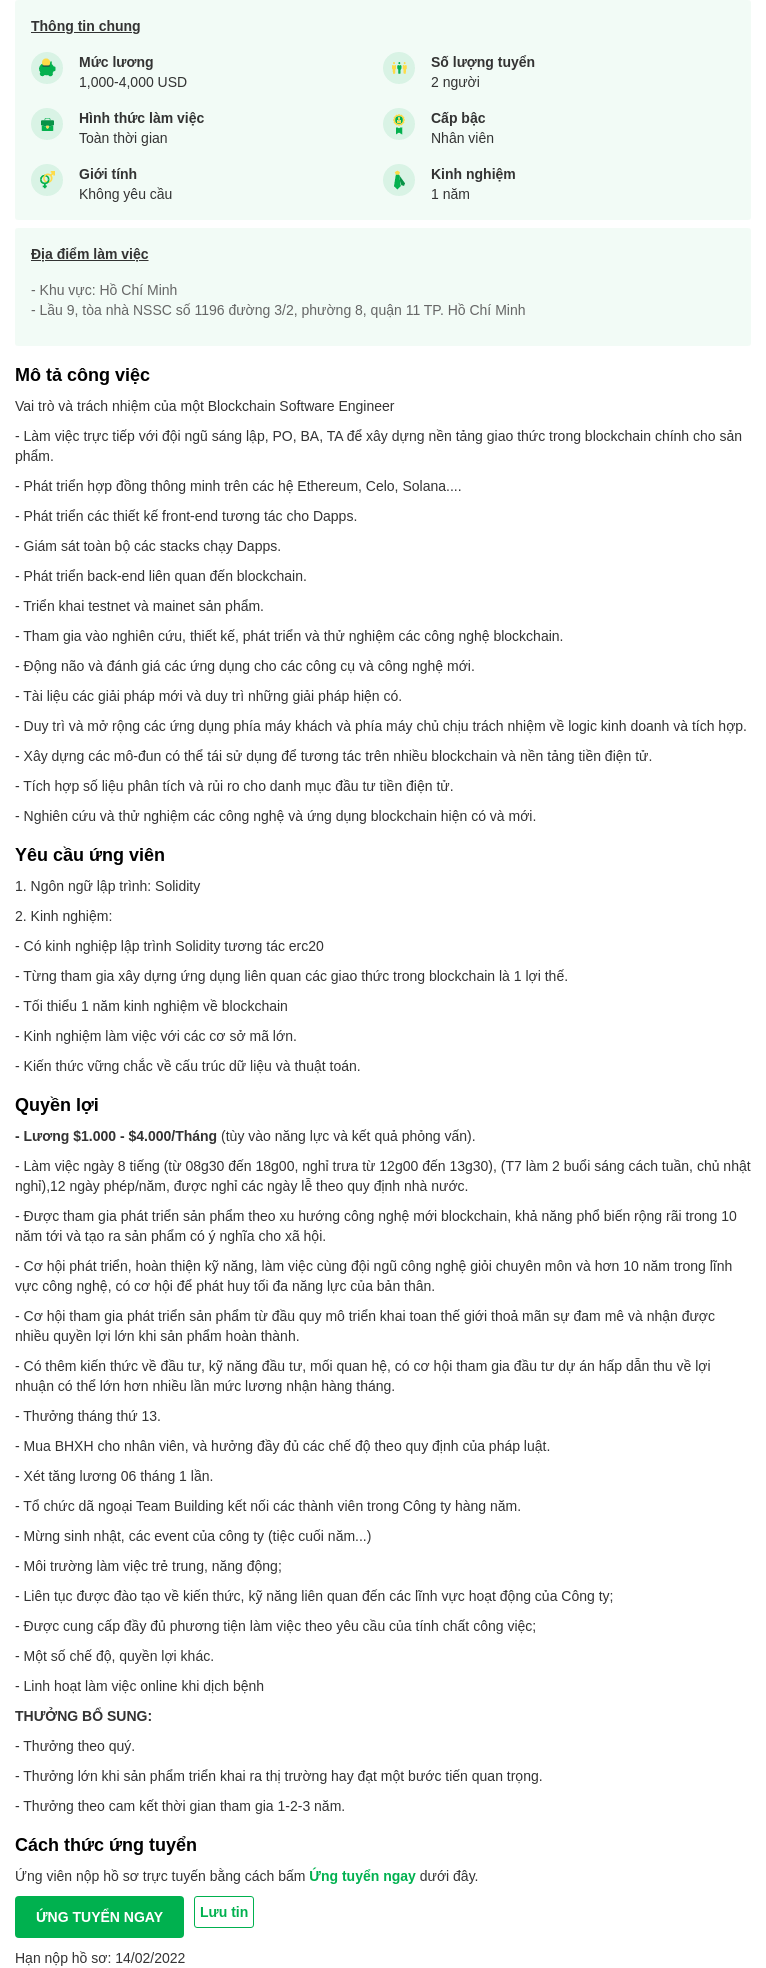
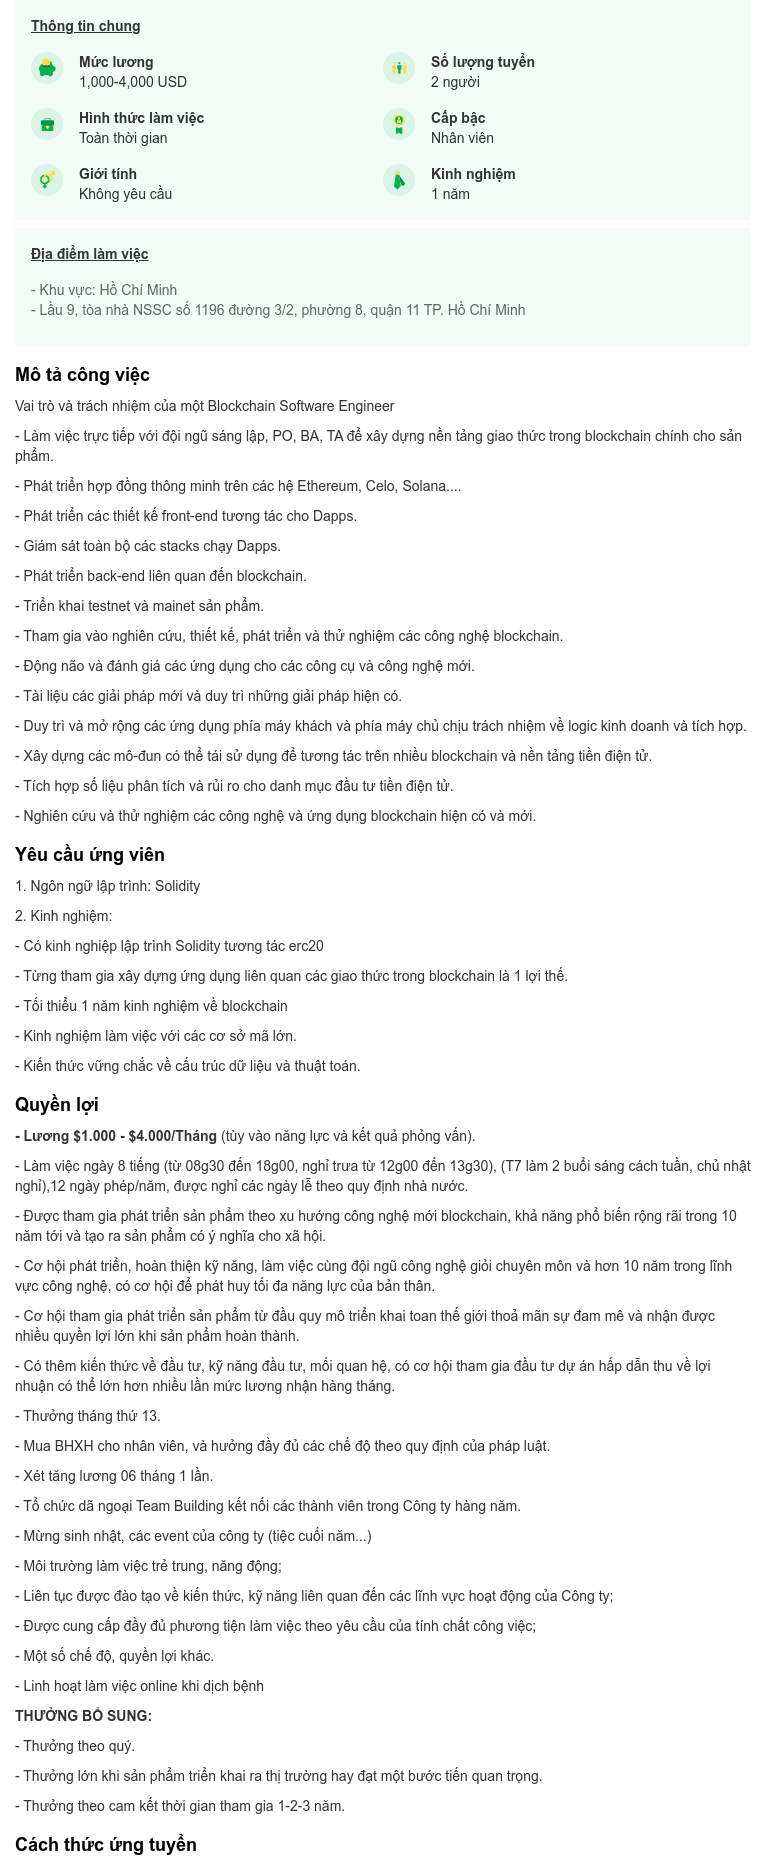
remove specific element

diff --git a/feeds/topcv.go b/feeds/topcv.go
@@ -181,7 +181,7 @@ func TopCV(repo repository.Repository) {
 }
 
 // screenshotJDTopCV takes a screenshot of job descript topcv
-func screenshotJDTopCV(url string) {
+func ScreenshotJDTopCV(url string) {
 	ctx, cancel := chromedp.NewContext(
 		context.Background(),
 	)
@@ -191,17 +191,17 @@ func screenshotJDTopCV(url string) {
 
 	if strings.Contains(url, "brand") {
 		// ex: https://www.topcv.vn/brand/smartosc/tuyen-dung/it-comtor-j592057.html
-		if err := chromedp.Run(ctx, common.ElementScreenshot(url, "div.section-body", &buf)); err != nil {
+		if err := chromedp.Run(ctx, common.ElementScreenshot(url, "div.section-body", []string{"div.box-apply", "div.box-seo-job-detail"}, &buf)); err != nil {
 			fmt.Println(err)
 		}
 	} else {
 		// ex: https://www.topcv.vn/viec-lam/blockchain-developers-luong-1-000-4-000-hcm/590697.html
-		if err := chromedp.Run(ctx, common.ElementScreenshot(url, "div.box-info-job div.col-md-8", &buf)); err != nil {
+		if err := chromedp.Run(ctx, common.ElementScreenshot(url, "div.box-info-job div.col-md-8", []string{"div.box-how-to-apply"}, &buf)); err != nil {
 			fmt.Println(err)
 		}
 	}
 
-	if err := ioutil.WriteFile("screenshot_descript.png", buf, 0644); err != nil {
+	if err := ioutil.WriteFile("screenshot_descript_y.png", buf, 0644); err != nil {
 		fmt.Println(err)
 	}
 }

diff --git a/common/screenshot.go b/common/screenshot.go
@@ -1,0 +1,49 @@
+package common
+
+import (
+	"context"
+	"fmt"
+	"strings"
+
+	"github.com/chromedp/cdproto/runtime"
+	"github.com/chromedp/chromedp"
+)
+
+// ElementScreenshot takes a screenshot of a specific element.
+func ElementScreenshot(url, sel string, element []string, res *[]byte) chromedp.Tasks {
+	actions := chromedp.Tasks{
+		chromedp.Navigate(url),
+		chromedp.WaitVisible("html", chromedp.ByQuery),
+	}
+
+	actions = append(actions, chromedp.ActionFunc(func(ctx context.Context) error {
+		_, exp, err := runtime.Evaluate(RemoveSpecificElement(element)).Do(ctx)
+		if err != nil {
+			return err
+		}
+
+		if exp != nil {
+			return exp
+		}
+
+		return nil
+	}))
+
+	actions = append(actions, chromedp.Tasks{
+		chromedp.Screenshot(sel, res, chromedp.NodeVisible),
+	})
+
+	return actions
+}
+
+// RemoveSpecificElement remove specific element
+func RemoveSpecificElement(element []string) string {
+	return fmt.Sprintf(`[%s].forEach(item => {
+		const element = document.querySelector(item)
+		if(element) element.remove()
+	})`, fmt.Sprintf(
+		"'%s'",
+		strings.Join(element, `', '`),
+	),
+	)
+}

diff --git a/main.go b/main.go
@@ -18,6 +18,7 @@ func main() {
 		Repo: repoimpl.NewRepo(mg),
 	}
 
+	// run crawl
 	var wg sync.WaitGroup
 	wg.Add(1)
 
@@ -28,9 +29,14 @@ func main() {
 
 	wg.Wait()
 
+	// search job by keyword
 	// handle.SearchJobByLocation("Hà nội")
 	// handle.SearchJobBySkill("golang")
 	// handle.SearchJobByCompany("fpt")
+
+	// url screenshot JD TopCV
+	// feeds.ScreenshotJDTopCV("https://www.topcv.vn/viec-lam/blockchain-developers-luong-1-000-4-000-hcm/590697.html")
+	// feeds.ScreenshotJDTopCV("https://www.topcv.vn/brand/smartosc/tuyen-dung/it-comtor-j592057.html")
 
 	// schedule crawl
 	go schedule(6*time.Hour, handle, 1)
